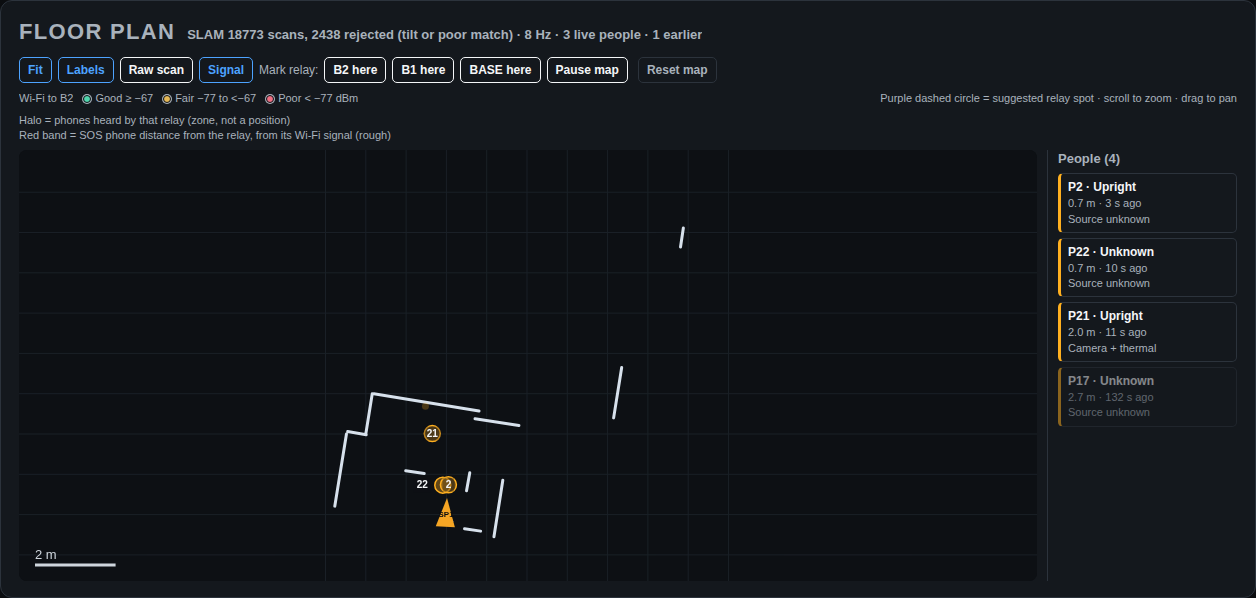
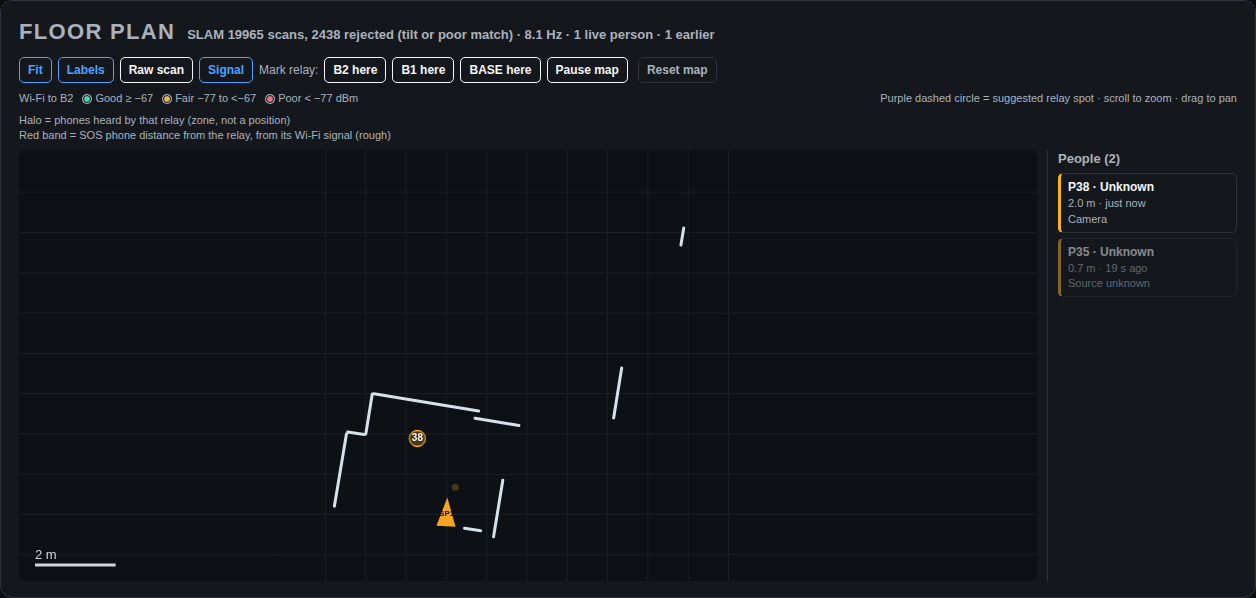
docs/media: dashboard screenshots retaken at 08:17 EST
Claude-Session: https://claude.ai/code/session_01FMW4unFtRPKcuhpbYjLkYP

diff --git a/docs/slides_tech.md b/docs/slides_tech.md
@@ -7,7 +7,7 @@ Images:
 | File | What it shows |
 |---|---|
 | `media/architecture.png` | System diagram: spotter, SP1, B2, B1, BASE, command post, survivor phone; alert chain and bulk link |
-| `media/dashboard_live_full.png` | Live command-post dashboard (Nov 8, 08:13 EST): floor plan, relay chain, alerts, live panes |
+| `media/dashboard_live_full.png` | Live command-post dashboard (Nov 8, 08:17 EST): floor plan, relay chain, alerts, live panes |
 | `media/dashboard_floorplan_controls.png` | Floor-plan panel with its controls (Fit, Labels, Raw scan, Signal, Mark relay, Pause map) and the People list |
 | `media/dashboard_relay_chain_alerts.png` | Relay chain health (SP1, B2, B1, BASE) and alert cards (PERSON, PHONE) with "Mark handled" |
 | `media/dashboard_live_panes.png` | Camera, thermal and LiDAR panes streamed over the bulk link, with the link rate and level |
